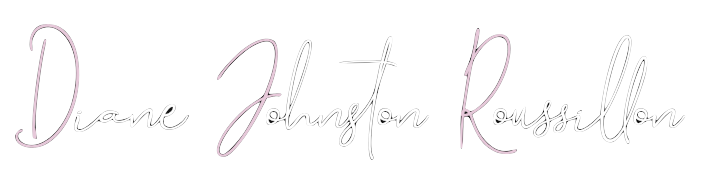
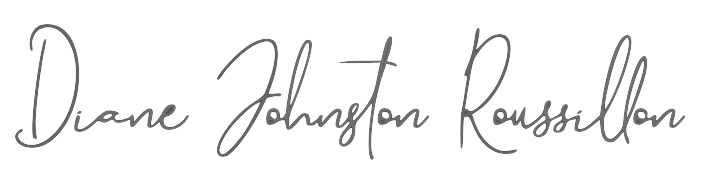
added languages

diff --git a/_sass/_base.scss b/_sass/_base.scss
@@ -20,39 +20,40 @@ $header:  #1D1425;
 
 body {
   // background-image: linear-gradient(to top, #09203f 0%, #537895 100%);
+  // background-image: linear-gradient(to top, #fff1eb 0%, #ace0f9 100%);
   // background-image: linear-gradient(-20deg, #d558c8 0%, #24d292 100%);
+// background: linear-gradient(to bottom, rgba(255,255,255,0.15) 0%, rgba(0,0,0,0.15) 100%), radial-gradient(at top center, rgba(255,255,255,0.40) 0%, rgba(0,0,0,0.40) 120%) #989898;
+//  background-blend-mode: multiply,multiply;
+  // background-image: linear-gradient(-20deg, #e9defa 0%, #fbfcdb 100%);
   // background-image: linear-gradient(45deg, #8baaaa 0%, #ae8b9c 100%);
   // background-image: linear-gradient(to right, #434343 0%, black 100%);
   // background-image: linear-gradient(to left, #0250c5 0%, #d43f8d 100%);
-  background: linear-gradient(to right, #434343 0%, black 100%);
+// background-image: linear-gradient(to top, #dbdcd7 0%, #dddcd7 24%, #e2c9cc 30%, #e7627d 46%, #b8235a 59%, #801357 71%, #3d1635 84%, #1c1a27 100%);
+  // background-image: linear-gradient(to top, #fcc5e4 0%, #fda34b 15%, #ff7882 35%, #c8699e 52%, #7046aa 71%, #0c1db8 87%, #020f75 100%);
+  // background: linear-gradient(178deg, #cbc2f2, #f4c4c0);
+ background-image: linear-gradient(to top, rgba(219, 220, 215, 0.2) 0%, rgba(221, 220, 215, 0.2) 24%, rgba(226, 201, 204, 0.2) 30%, rgba(231, 98, 125, 0.2) 46%, rgba(184, 35, 90, 0.2) 59%, rgba(128, 19, 87, 0.2) 71%, rgba(61, 22, 53, 0.2) 84%, rgba(28, 26, 39, 0.2) 100%);
   background-size: 400% 400%;
 
-  -webkit-animation: AnimationName 14s ease infinite;
-  -moz-animation: AnimationName 14s ease infinite;
-  -o-animation: AnimationName 18s ease infinite;
-  animation: AnimationName 14s ease infinite;
+  -webkit-animation: AnimationName 12s ease infinite;
+  -moz-animation: AnimationName 12s ease infinite;
+  animation: AnimationName 12s ease infinite;
 
   @-webkit-keyframes AnimationName {
-      0%{background-position:0% 50%}
-      50%{background-position:100% 50%}
-      100%{background-position:0% 50%}
+      0%{background-position:53% 0%}
+      50%{background-position:48% 100%}
+      100%{background-position:53% 0%}
   }
   @-moz-keyframes AnimationName {
-      0%{background-position:0% 50%}
-      50%{background-position:100% 50%}
-      100%{background-position:0% 50%}
-  }
-  @-o-keyframes AnimationName {
-      0%{background-position:0% 50%}
-      50%{background-position:100% 50%}
-      100%{background-position:0% 50%}
+      0%{background-position:53% 0%}
+      50%{background-position:48% 100%}
+      100%{background-position:53% 0%}
   }
   @keyframes AnimationName {
-      0%{background-position:0% 50%}
-      50%{background-position:100% 50%}
-      100%{background-position:0% 50%}
+      0%{background-position:53% 0%}
+      50%{background-position:48% 100%}
+      100%{background-position:53% 0%}
   }
-  color: white;
+  color: rgb(109, 109, 109);
   font-family: $font-style;
   font-weight: lighter;
   font-size: 14px;

diff --git a/_layouts/home.html b/_layouts/home.html
@@ -37,11 +37,24 @@
         </div>
       </div>
     <div class="third_wrap" id="skills">
-      <div class="third_wrap_content"><i class="devicon-ruby-plain colored skills_languages"></i>Ruby</div>
-      <div class="third_wrap_content"><i class="devicon-rails-plain colored skills_languages"></i>Rails</div>
-      <div class="third_wrap_content"><i class="devicon-css3-plain colored skills_languages"></i>CSS</div>
-      <div class="third_wrap_content"><i class="devicon-html5-plain colored skills_languages"></i>Html</div>
-      <div class="third_wrap_content"><i class="devicon-javascript-plain colored skills_languages"></i>Javascript</div>
+      <div class="third_wrap_content group">
+        <div class="third_wrap_content"><i class="devicon-css3-plain colored skills_languages"></i>CSS3 / SASS</div>
+        <div class="third_wrap_content"><i class="devicon-html5-plain colored skills_languages"></i>HTML5</div>
+        <div class="third_wrap_content"><i class="devicon-javascript-plain colored skills_languages"></i>Javascript / ES6</div>
+        <div class="third_wrap_content"><i class="devicon-bootstrap-plain colored skills_languages"></i>Bootstrap</div>
+      </div>
+      <div class="third_wrap_content group">
+        <div class="third_wrap_content"><i class="devicon-ruby-plain colored skills_languages"></i>Ruby</div>
+        <div class="third_wrap_content"><i class="devicon-rails-plain colored skills_languages"></i>Rails</div>
+        <div class="third_wrap_content"><img src="/assets/images/jekyll2.png" alt="jekyll" id="jekyll-img">Jekyll</div>
+      </div>
+      <div class="third_wrap_content group">
+        <div class="third_wrap_content"><i class="devicon-heroku-original colored skills_languages"></i>Heroku</div>
+        <div class="third_wrap_content"><i class="devicon-github-plain colored skills_languages"></i>Github</div>
+        <div class="third_wrap_content"><i class="devicon-git-plain colored skills_languages"></i>Git</div>
+        <div class="third_wrap_content"><i class="devicon-postgresql-plain colored skills_languages"></i>
+PostGreSQL</div>
+      </div>
     </div>
 <!--     <div class="fourth_wrap" id="projects">Projects</div>
  --> <div class="fifth_wrap">

diff --git a/_sass/_layout.scss b/_sass/_layout.scss
@@ -1,7 +1,7 @@
 
 a {
   text-decoration: none;
-  color: white !important;
+  color: rgb(109, 109, 109) !important;
 }
 
 .first_wrap {
@@ -54,7 +54,7 @@ a {
   width: 50%;
   border-right-width: 1px;
   border-right-style: solid;
-  border-image: linear-gradient(to top, white, rgba(250, 250, 250, 0)) 1 100%;
+  border-image: linear-gradient(to top, rgb(109, 109, 109), rgba(109, 109, 109, 0)) 1 100%;
   display: flex;
   justify-content: flex-end;
 }
@@ -68,7 +68,7 @@ a {
   margin: 15px -30px -30px -30px;
   padding: 0px;
   font-size: 14px;
-  color: rgba(250, 250, 250, 0.7);
+  color: rgba(109, 109, 109, 0.7);
 }
 
 .second_wrap {
@@ -81,7 +81,7 @@ a {
   align-content: center;
   transition: box-shadow 0.3s ease-in-out;
   .second_wrap_total:hover {
-    box-shadow: 0 5px 15px rgba(0,0,0,0.3);
+    box-shadow: 0 5px 15px rgba(109,109,109,0.3);
   }
   p {
     line-height: 28px;
@@ -92,7 +92,7 @@ a {
   width: 80%;
   padding: 20px 0px;
   transition: box-shadow 0.3s ease-in-out;
-  box-shadow: 0 1px 2px rgba(0,0,0,0.15);
+  box-shadow: 0 1px 2px rgba(109,109,109,0.15);
 
 }
 
@@ -106,7 +106,7 @@ a {
 
 .third_wrap {
   margin: 10px 0px;
-  height: 50vh;
+  height: 70vh;
   text-align: center;
   display: flex;
   flex-wrap: wrap;
@@ -114,21 +114,30 @@ a {
   align-items: center;
 }
 
+.third_wrap_content.group {
+  width: 33%;
+  display: flex;
+  justify-content: center;
+  align-items: center;
+}
+
 .third_wrap_content {
-  width: 20%;
+  width: 50%;
+  display: flex;
+  flex-direction: column;
+  justify-content: center;
+  align-items: center;
+  padding: 10px 10px 20px 10px;
 }
 
 .skills_languages {
   font-size: 30px;
-  margin-right: 10px;
+  padding-bottom: 5px;
 }
 
 @media only screen and (max-width: 800px) and (min-width: 0px) {
-  .third_wrap_content {
-    width: 50%;
-  }
   .third_wrap {
-    height: 60vh;
+    height: 90vh;
   }
   .first_wrap {
     height: 70vh;
@@ -190,5 +199,13 @@ img {
 
 .cut-sentence {
   padding-bottom: 20px;
+}
+
+#jekyll-img {
+  width: 77px !important;
+  min-width: 77px !important;
+  height: 35px !important;
+  min-height: 35px !important;
+  padding-bottom: 5px;
 }
 
